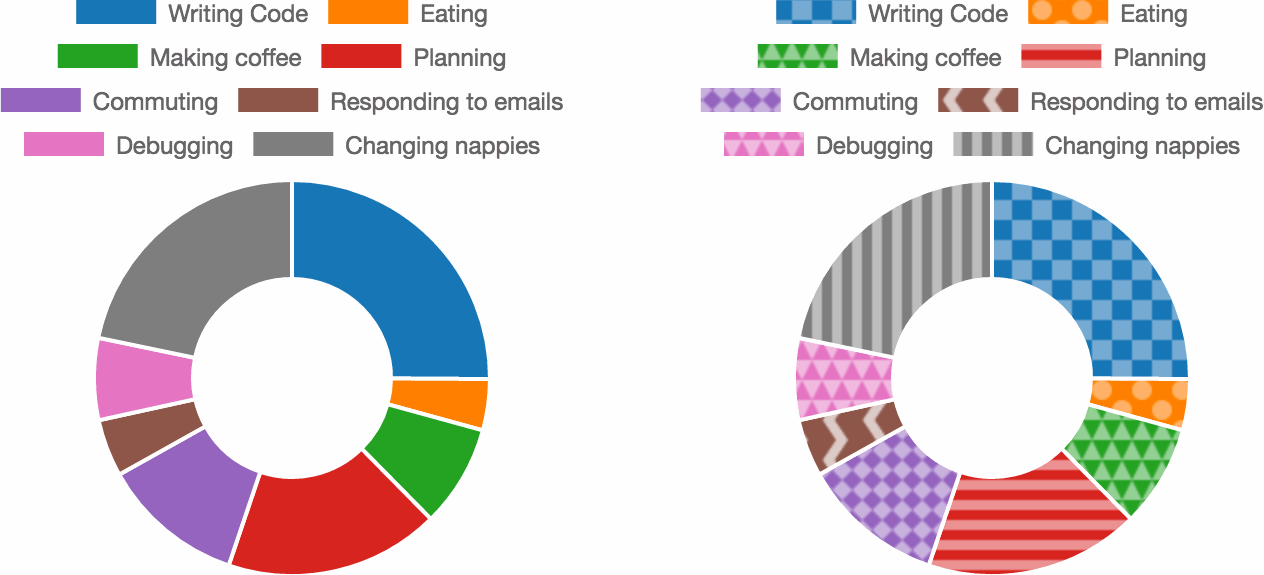
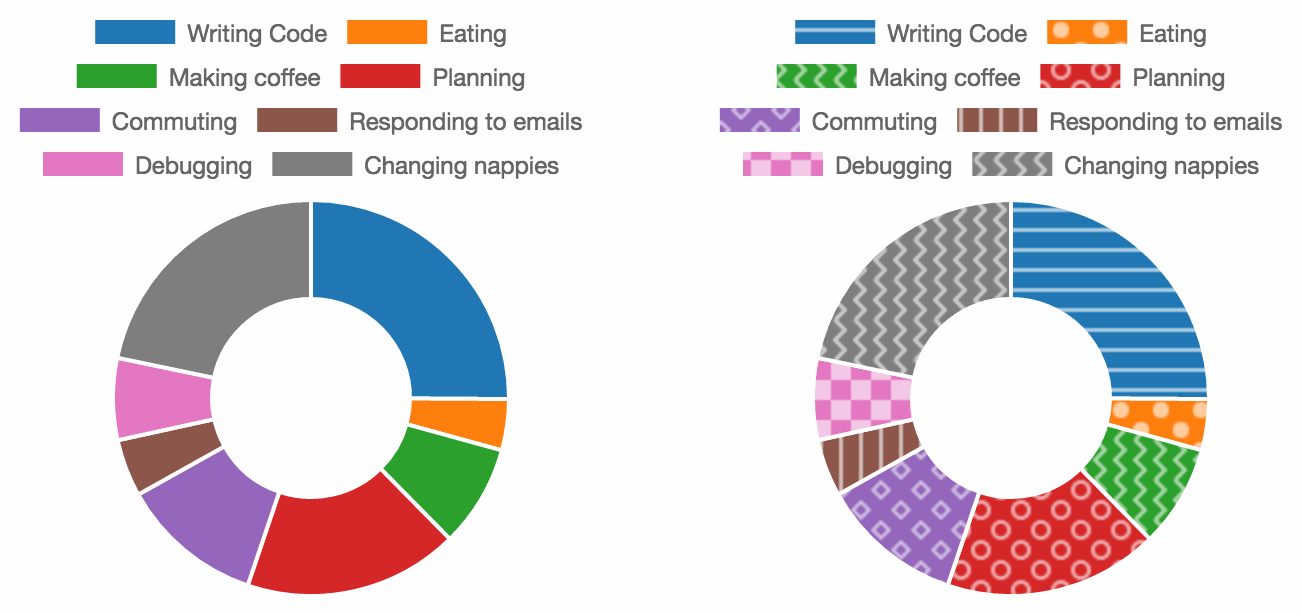
Output ES2015 package and updated README
Updated the Rollup build process to build both ES5 and ES2015 packages. Also updated the Readme to include better usage information.

diff --git a/examples/compare.html b/examples/compare.html
@@ -19,7 +19,7 @@
     <canvas id='doughnut' width='300' height='300'></canvas>
     <canvas id='doughnut2' width='300' height='300'></canvas>
 
-    <script src='../dist/patterns.js' charset='utf-8'></script>
+    <script src='../dist/patternomaly.js' charset='utf-8'></script>
     <script>
     var load = function() {
       var doughnutDataset = {
@@ -62,16 +62,16 @@
             300, 50, 100, 210, 140,
             56, 80, 260
           ],
-          backgroundColor: [
-            pattern.draw('square', '#1f77b4'),
-            pattern.draw('circle', '#ff7f0e'),
-            pattern.draw('triangle', '#2ca02c'),
-            pattern.draw('line-horizontal', '#d62728'),
-            pattern.draw('diamond', '#9467bd'),
-            pattern.draw('zigzag-vertical', '#8c564b'),
-            pattern.draw('triangle-inverted', '#e377c2'),
-            pattern.draw('line-vertical', '#7f7f7f'),
-          ]
+          backgroundColor: pattern.generate([
+            '#1f77b4',
+            '#ff7f0e',
+            '#2ca02c',
+            '#d62728',
+            '#9467bd',
+            '#8c564b',
+            '#e377c2',
+            '#7f7f7f',
+          ])
         }],
         labels: [
           'Writing Code', 'Eating', 'Making coffee', 'Planning', 'Commuting',

diff --git a/rollup.config.js b/rollup.config.js
@@ -5,12 +5,21 @@ let pkg = require('./package.json');
 
 export default {
   entry: 'index.js',
-  dest: 'dist/patterns.js',
-  format: 'umd',
-  moduleName: 'pattern',
-  sourceMap: true,
   plugins: [
     babel(babelrc())
   ],
-  external: Object.keys(pkg.dependencies)
+  external: Object.keys(pkg.dependencies),
+  targets: [
+    {
+      dest: pkg['main'],
+      format: 'umd',
+      moduleName: 'pattern',
+      sourceMap: true
+    },
+    {
+      dest: pkg['jsnext:main'],
+      format: 'es',
+      sourceMap: true
+    }
+  ]
 };

diff --git a/examples/chart-types.html b/examples/chart-types.html
@@ -27,7 +27,7 @@
     <h3>Multiple Dataset Bubble Chart (similar colors)</h3>
     <canvas id='bubble' width='300' height='200'></canvas>
 
-    <script src='../dist/patterns.js' charset='utf-8'></script>
+    <script src='../dist/patternomaly.js' charset='utf-8'></script>
     <script>
     var load = function() {
       var barCanvas = document.getElementById('bar');

diff --git a/README.md b/README.md
@@ -1,8 +1,6 @@
-# Canvas patterns
+# Patternomaly
 
 Easily generate patterns for use in data graphics.
-
-    npm install patternomaly
 
 <img src="./assets/example.png" alt="Pattern example" width="650">
 
@@ -12,6 +10,19 @@ Easily generate patterns for use in data graphics.
 
 This library came about as part of [an issue in Chart.js](https://github.com/chartjs/Chart.js/issues/1323).
 
-# Development Setup
+## Usage
 
-Uses jsdom so make sure you explain how to set up canvas. https://www.npmjs.com/package/canvas
+    npm install patternomaly
+
+Generate a single canvas pattern
+
+    pattern.draw('square', '#1f77b4');
+
+Generate an array of canvas patterns
+
+    pattern.generate([
+      '#1f77b4',
+      '#ff7f0e',
+      '#2ca02c',
+      '#d62728'
+    ]);
